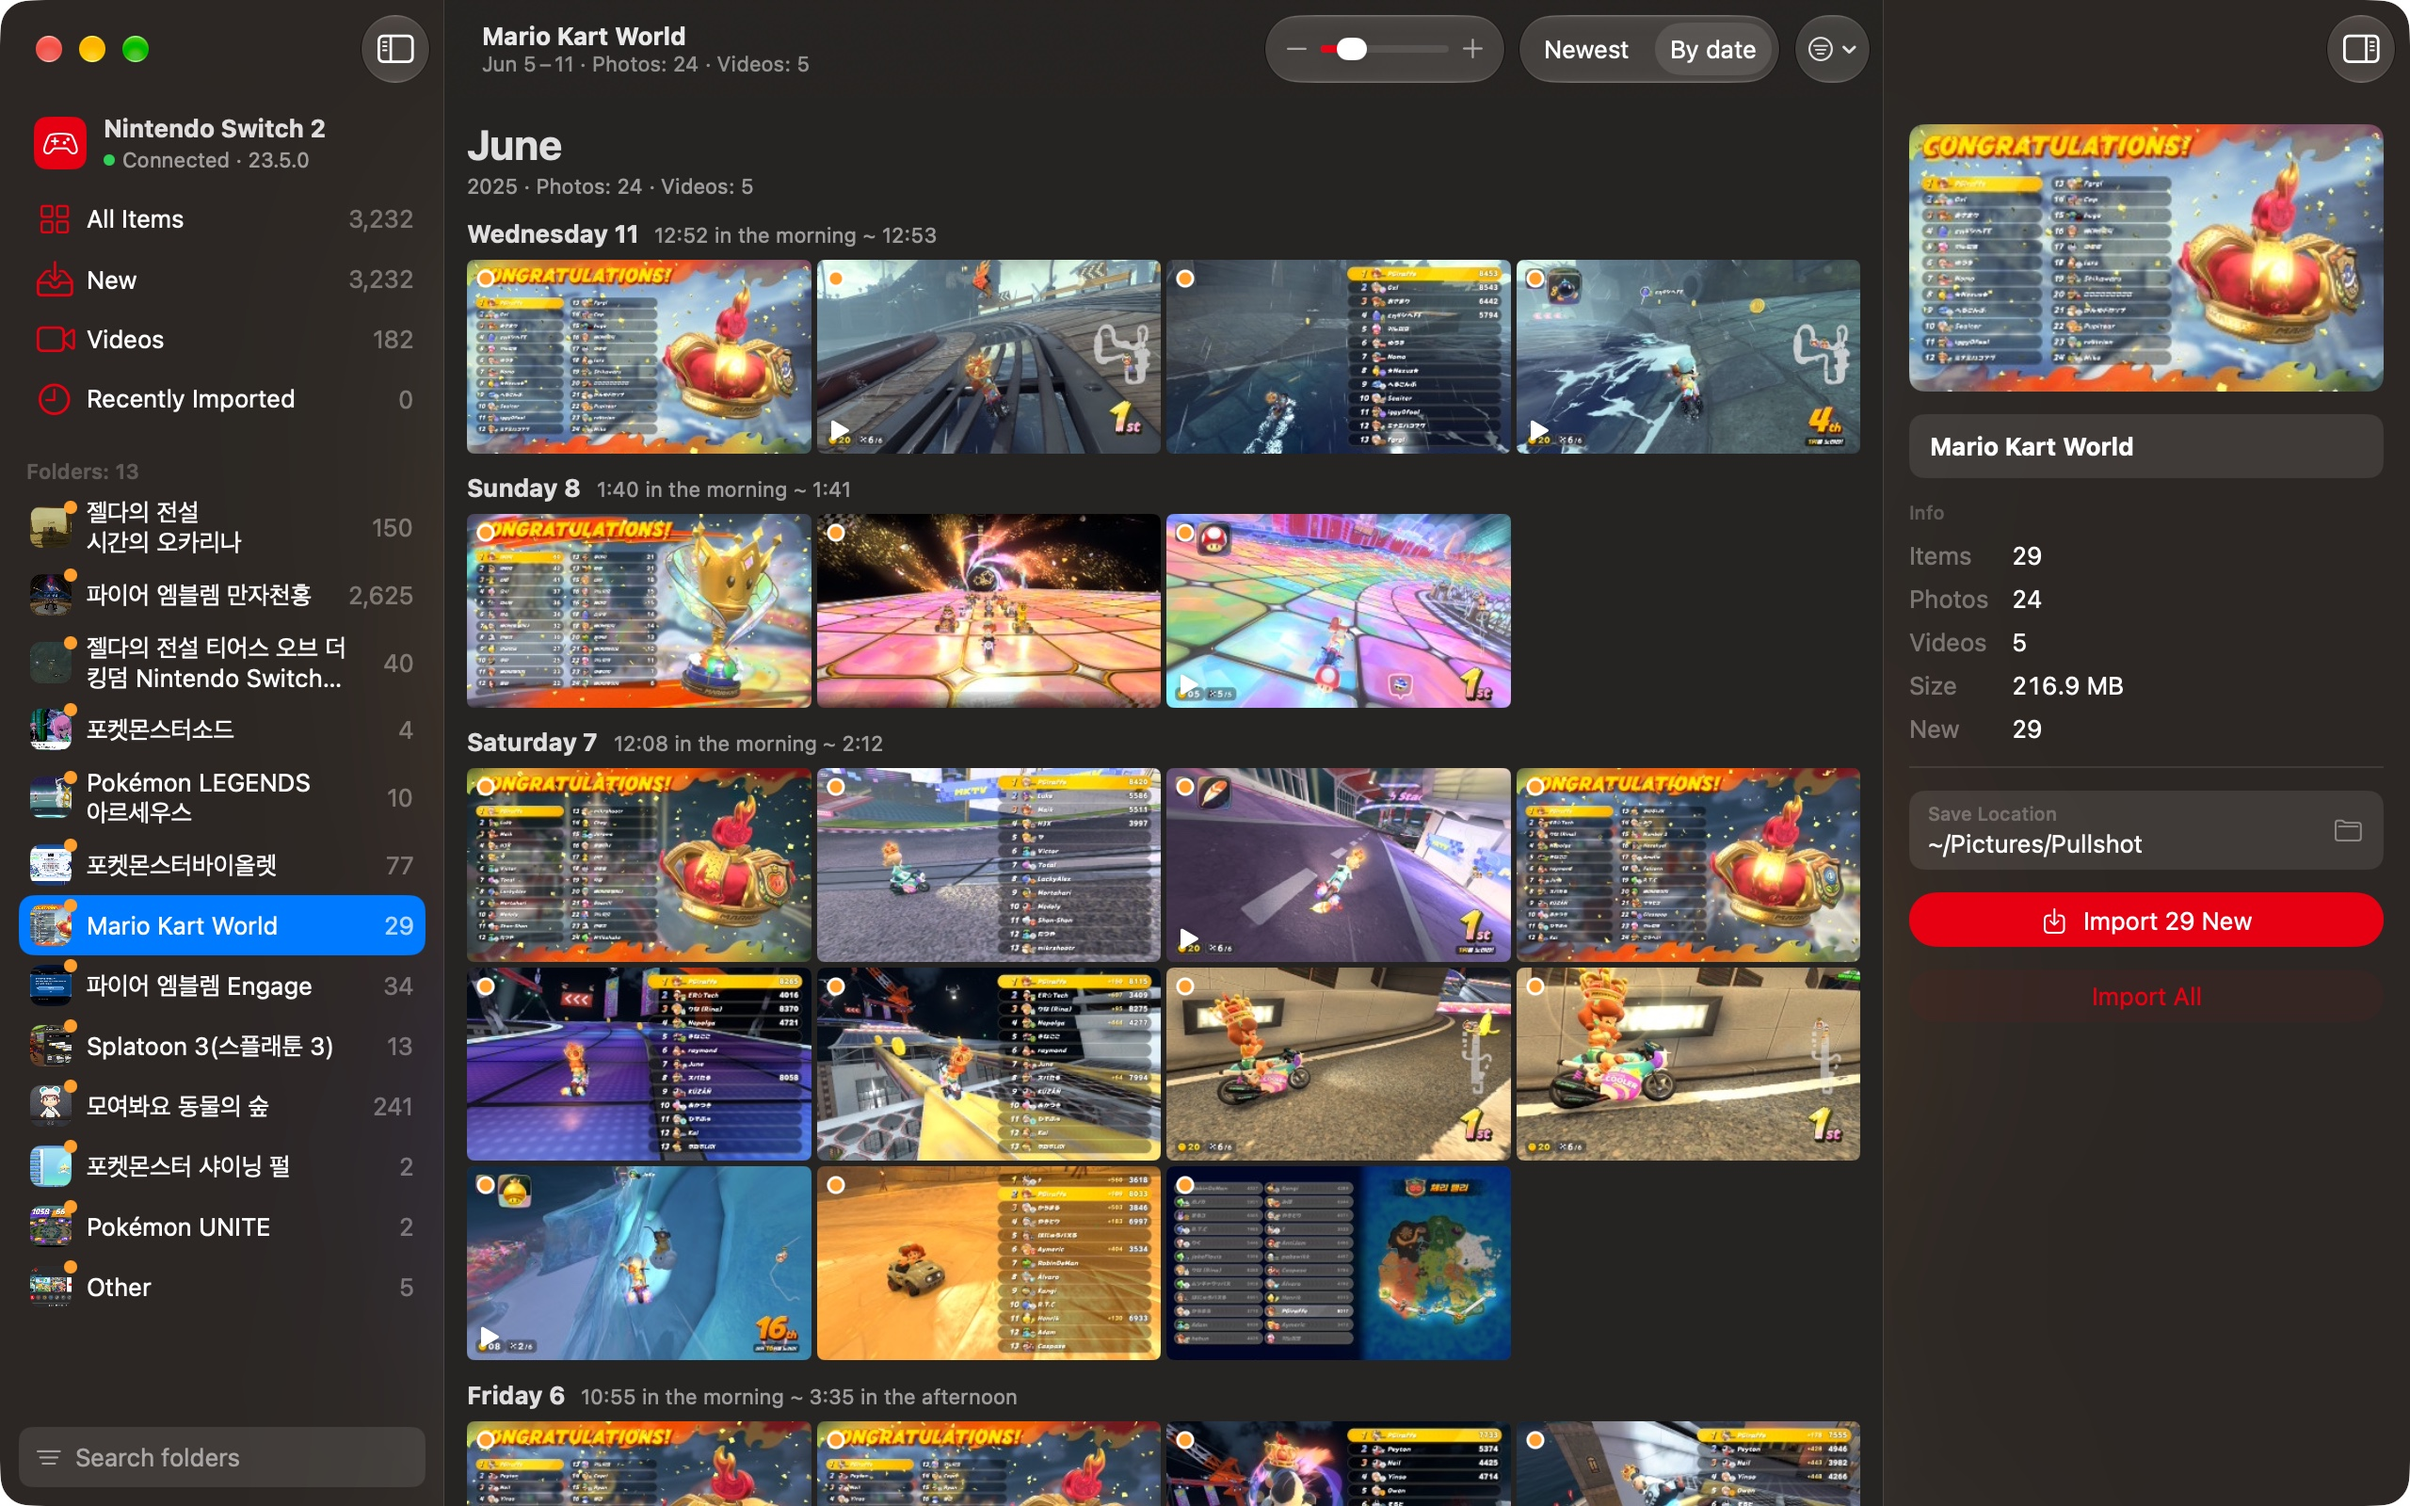
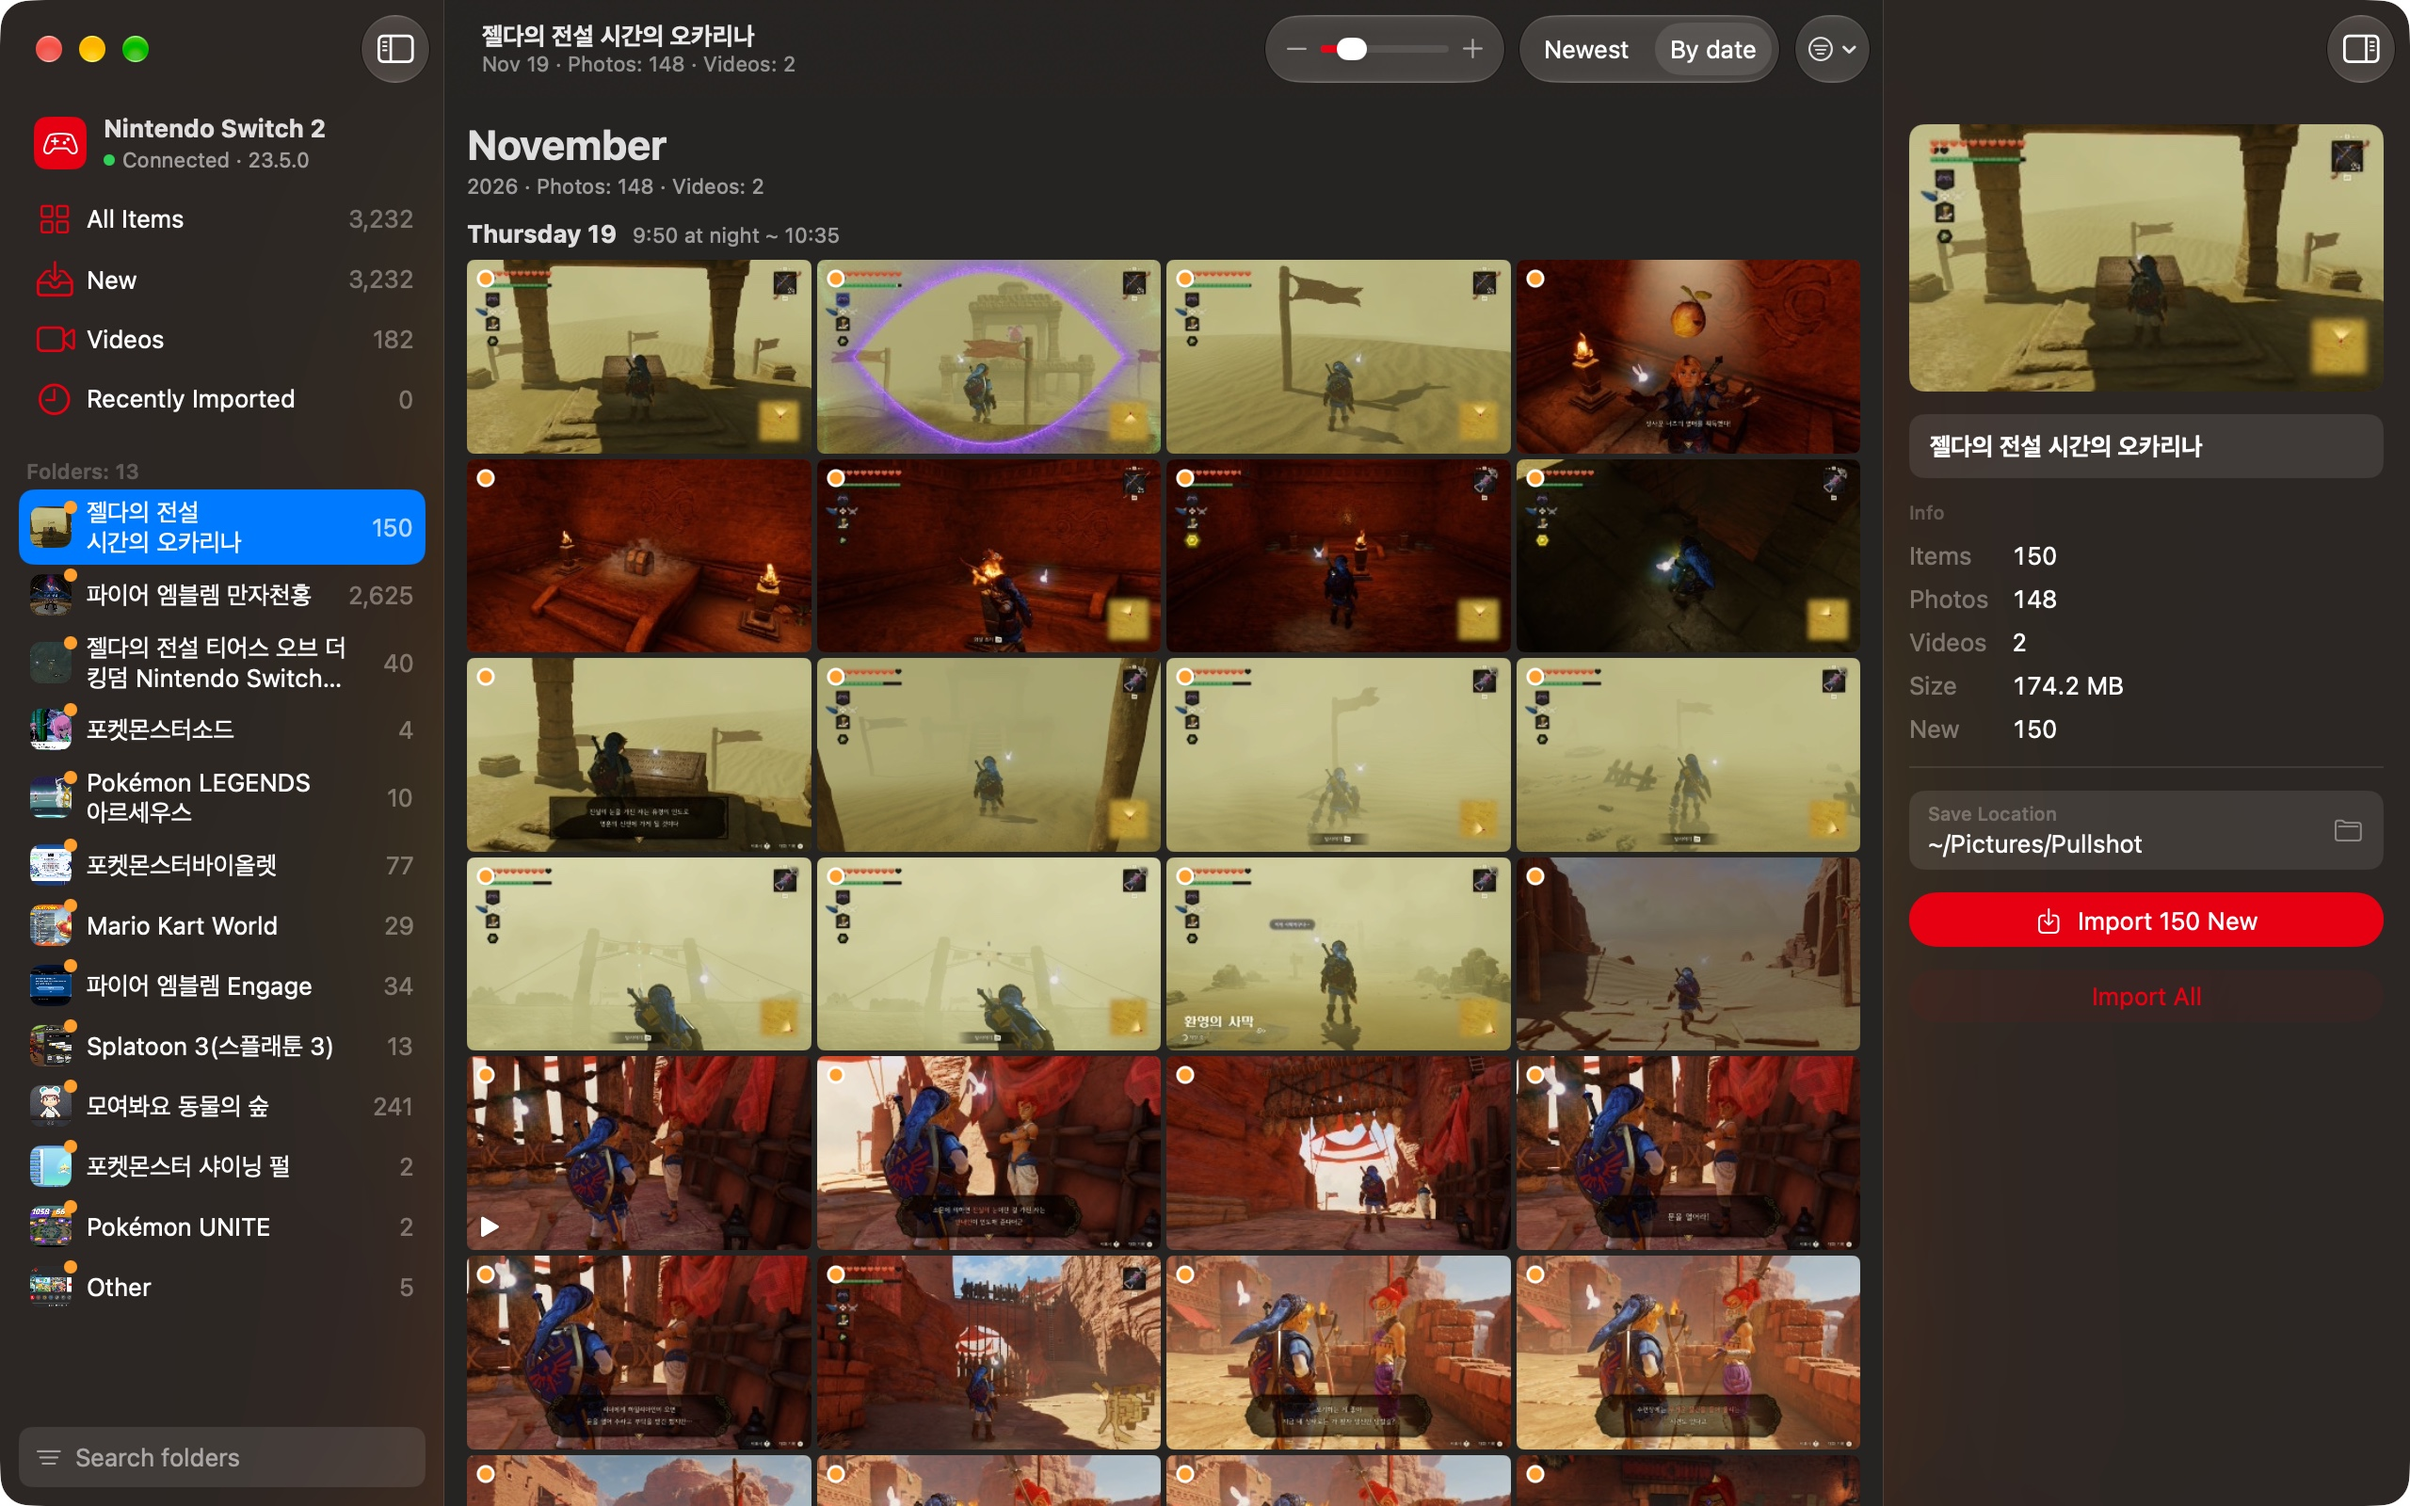
README 메인 화면을 닉네임이 없는 폴더 화면으로 교체

diff --git a/README.ko.md b/README.ko.md
@@ -4,7 +4,7 @@
 
 Nintendo Switch 2와 Nintendo Switch로 찍은 사진과 동영상을 USB 케이블로 Mac에 가져오는 앱입니다. 게임별로 묶어서 보여 주고, 필요한 것만 선택해서 가져오거나 Finder로 드래그해서 원하는 폴더에 바로 저장할 수 있습니다. Nintendo Switch 지원은 실험 단계입니다.
 
-![연결한 Nintendo Switch 2의 Mario Kart World 폴더를 연 Pullshot 화면](docs/images/main-ko.jpg)
+![연결한 Nintendo Switch 2의 게임 폴더를 연 Pullshot 화면](docs/images/main-ko.jpg)
 
 ## 요구 사항
 

diff --git a/README.md b/README.md
@@ -4,7 +4,7 @@ English | [한국어](README.ko.md)
 
 Pullshot is a Mac app that imports photos and videos taken on Nintendo Switch 2 and Nintendo Switch over a USB cable. It groups them by game, lets you import only the ones you select, and lets you drag them to Finder to save them straight into any folder. Nintendo Switch support is experimental.
 
-![Pullshot showing a Mario Kart World folder from a connected Nintendo Switch 2](docs/images/main-en.jpg)
+![Pullshot showing a game folder from a connected Nintendo Switch 2](docs/images/main-en.jpg)
 
 ## Requirements
 
